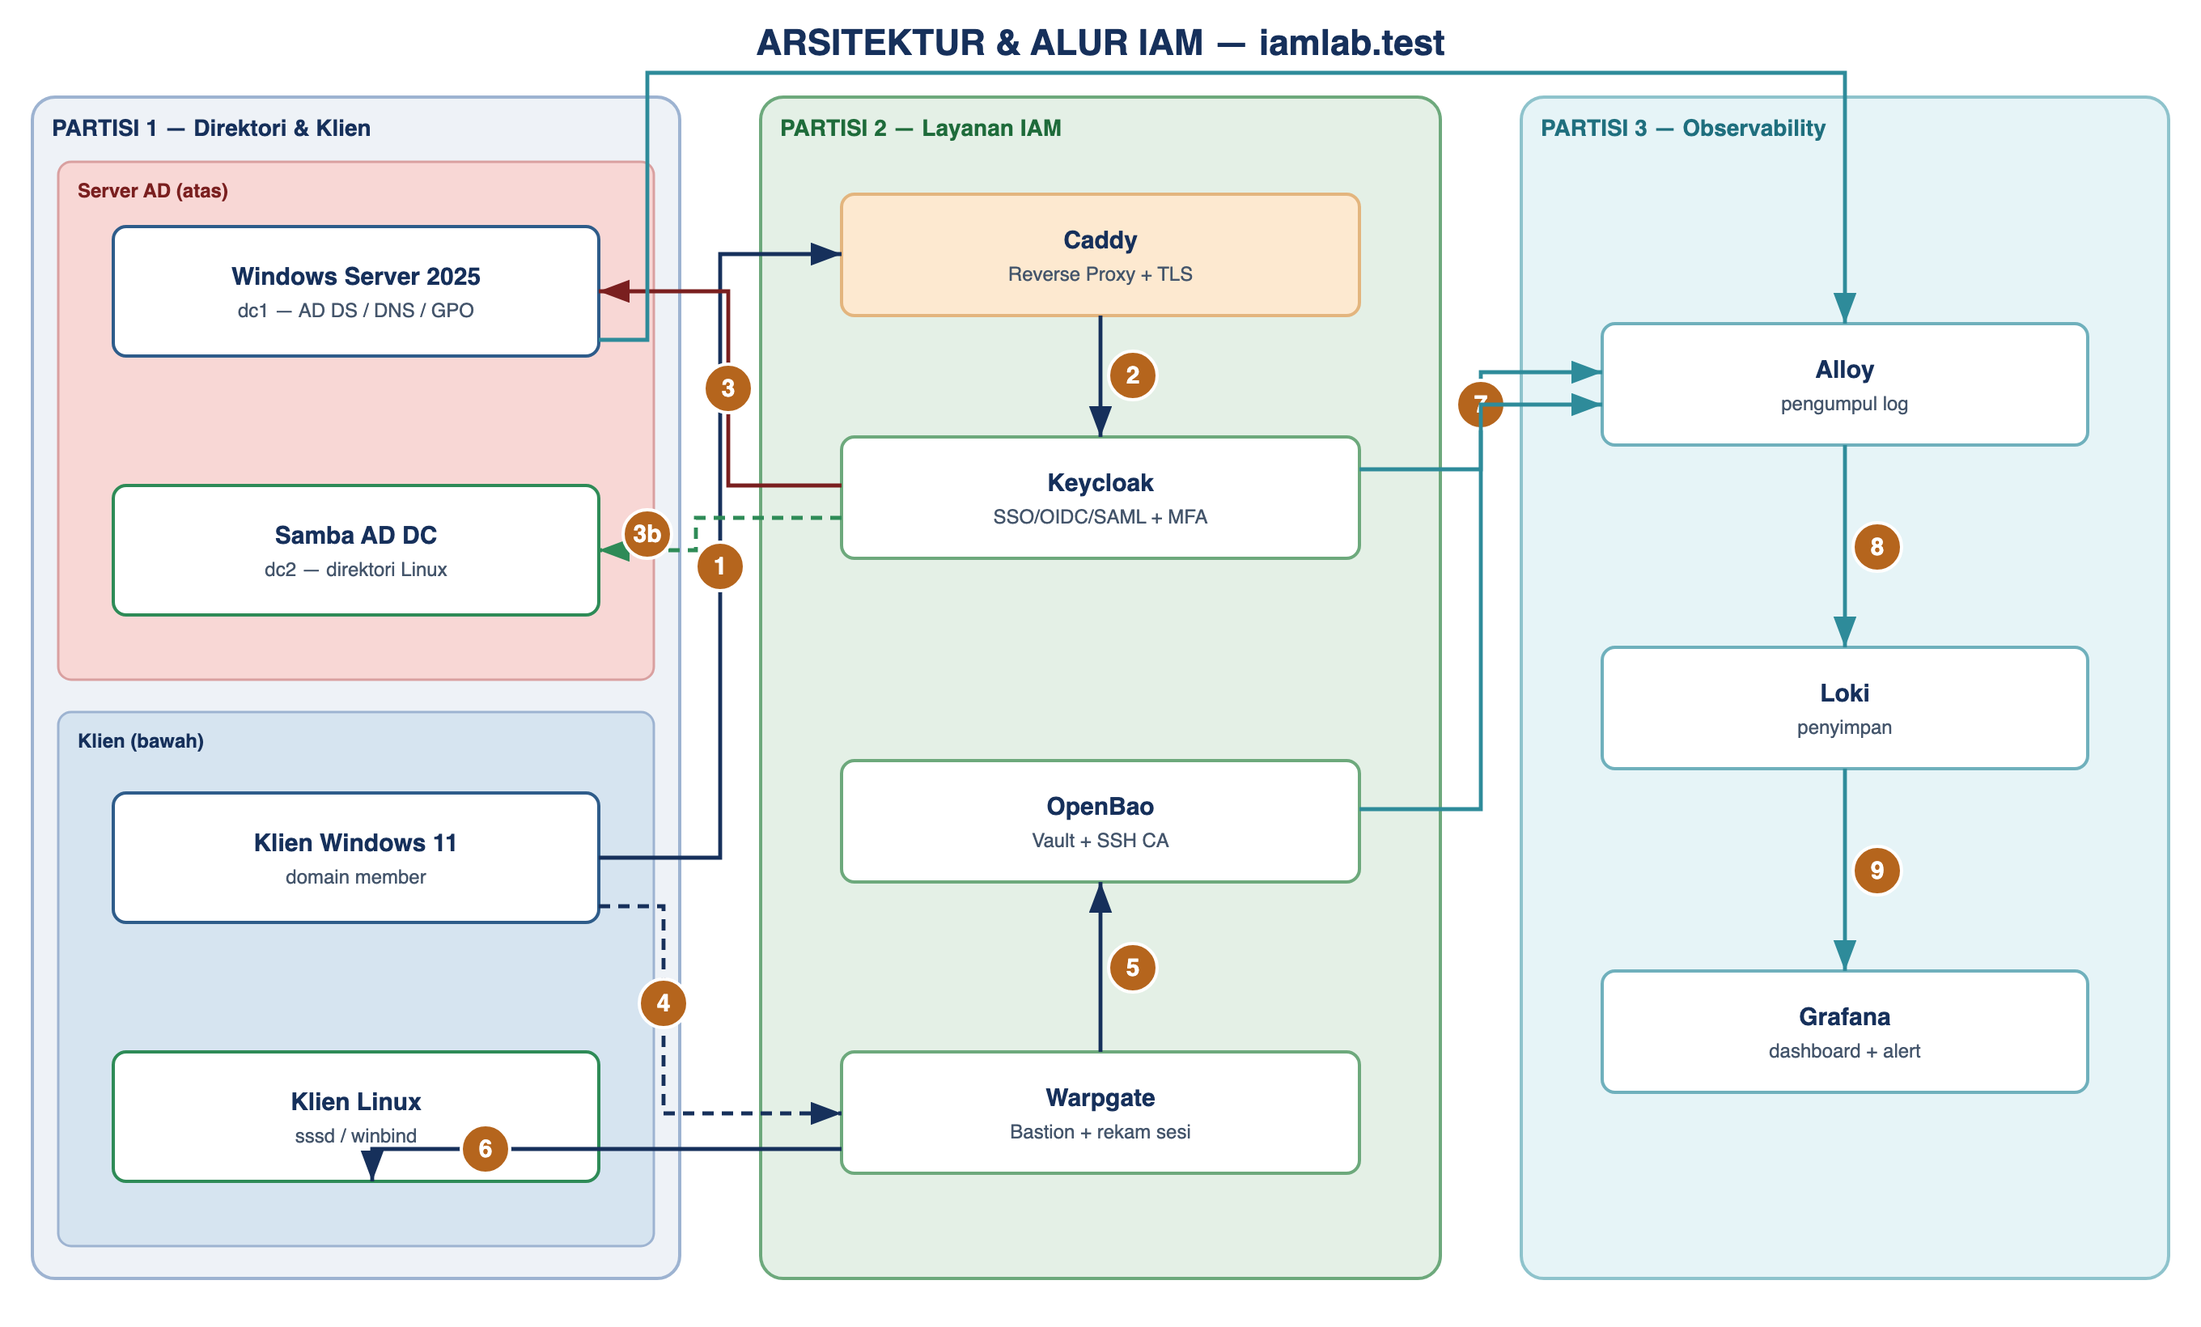
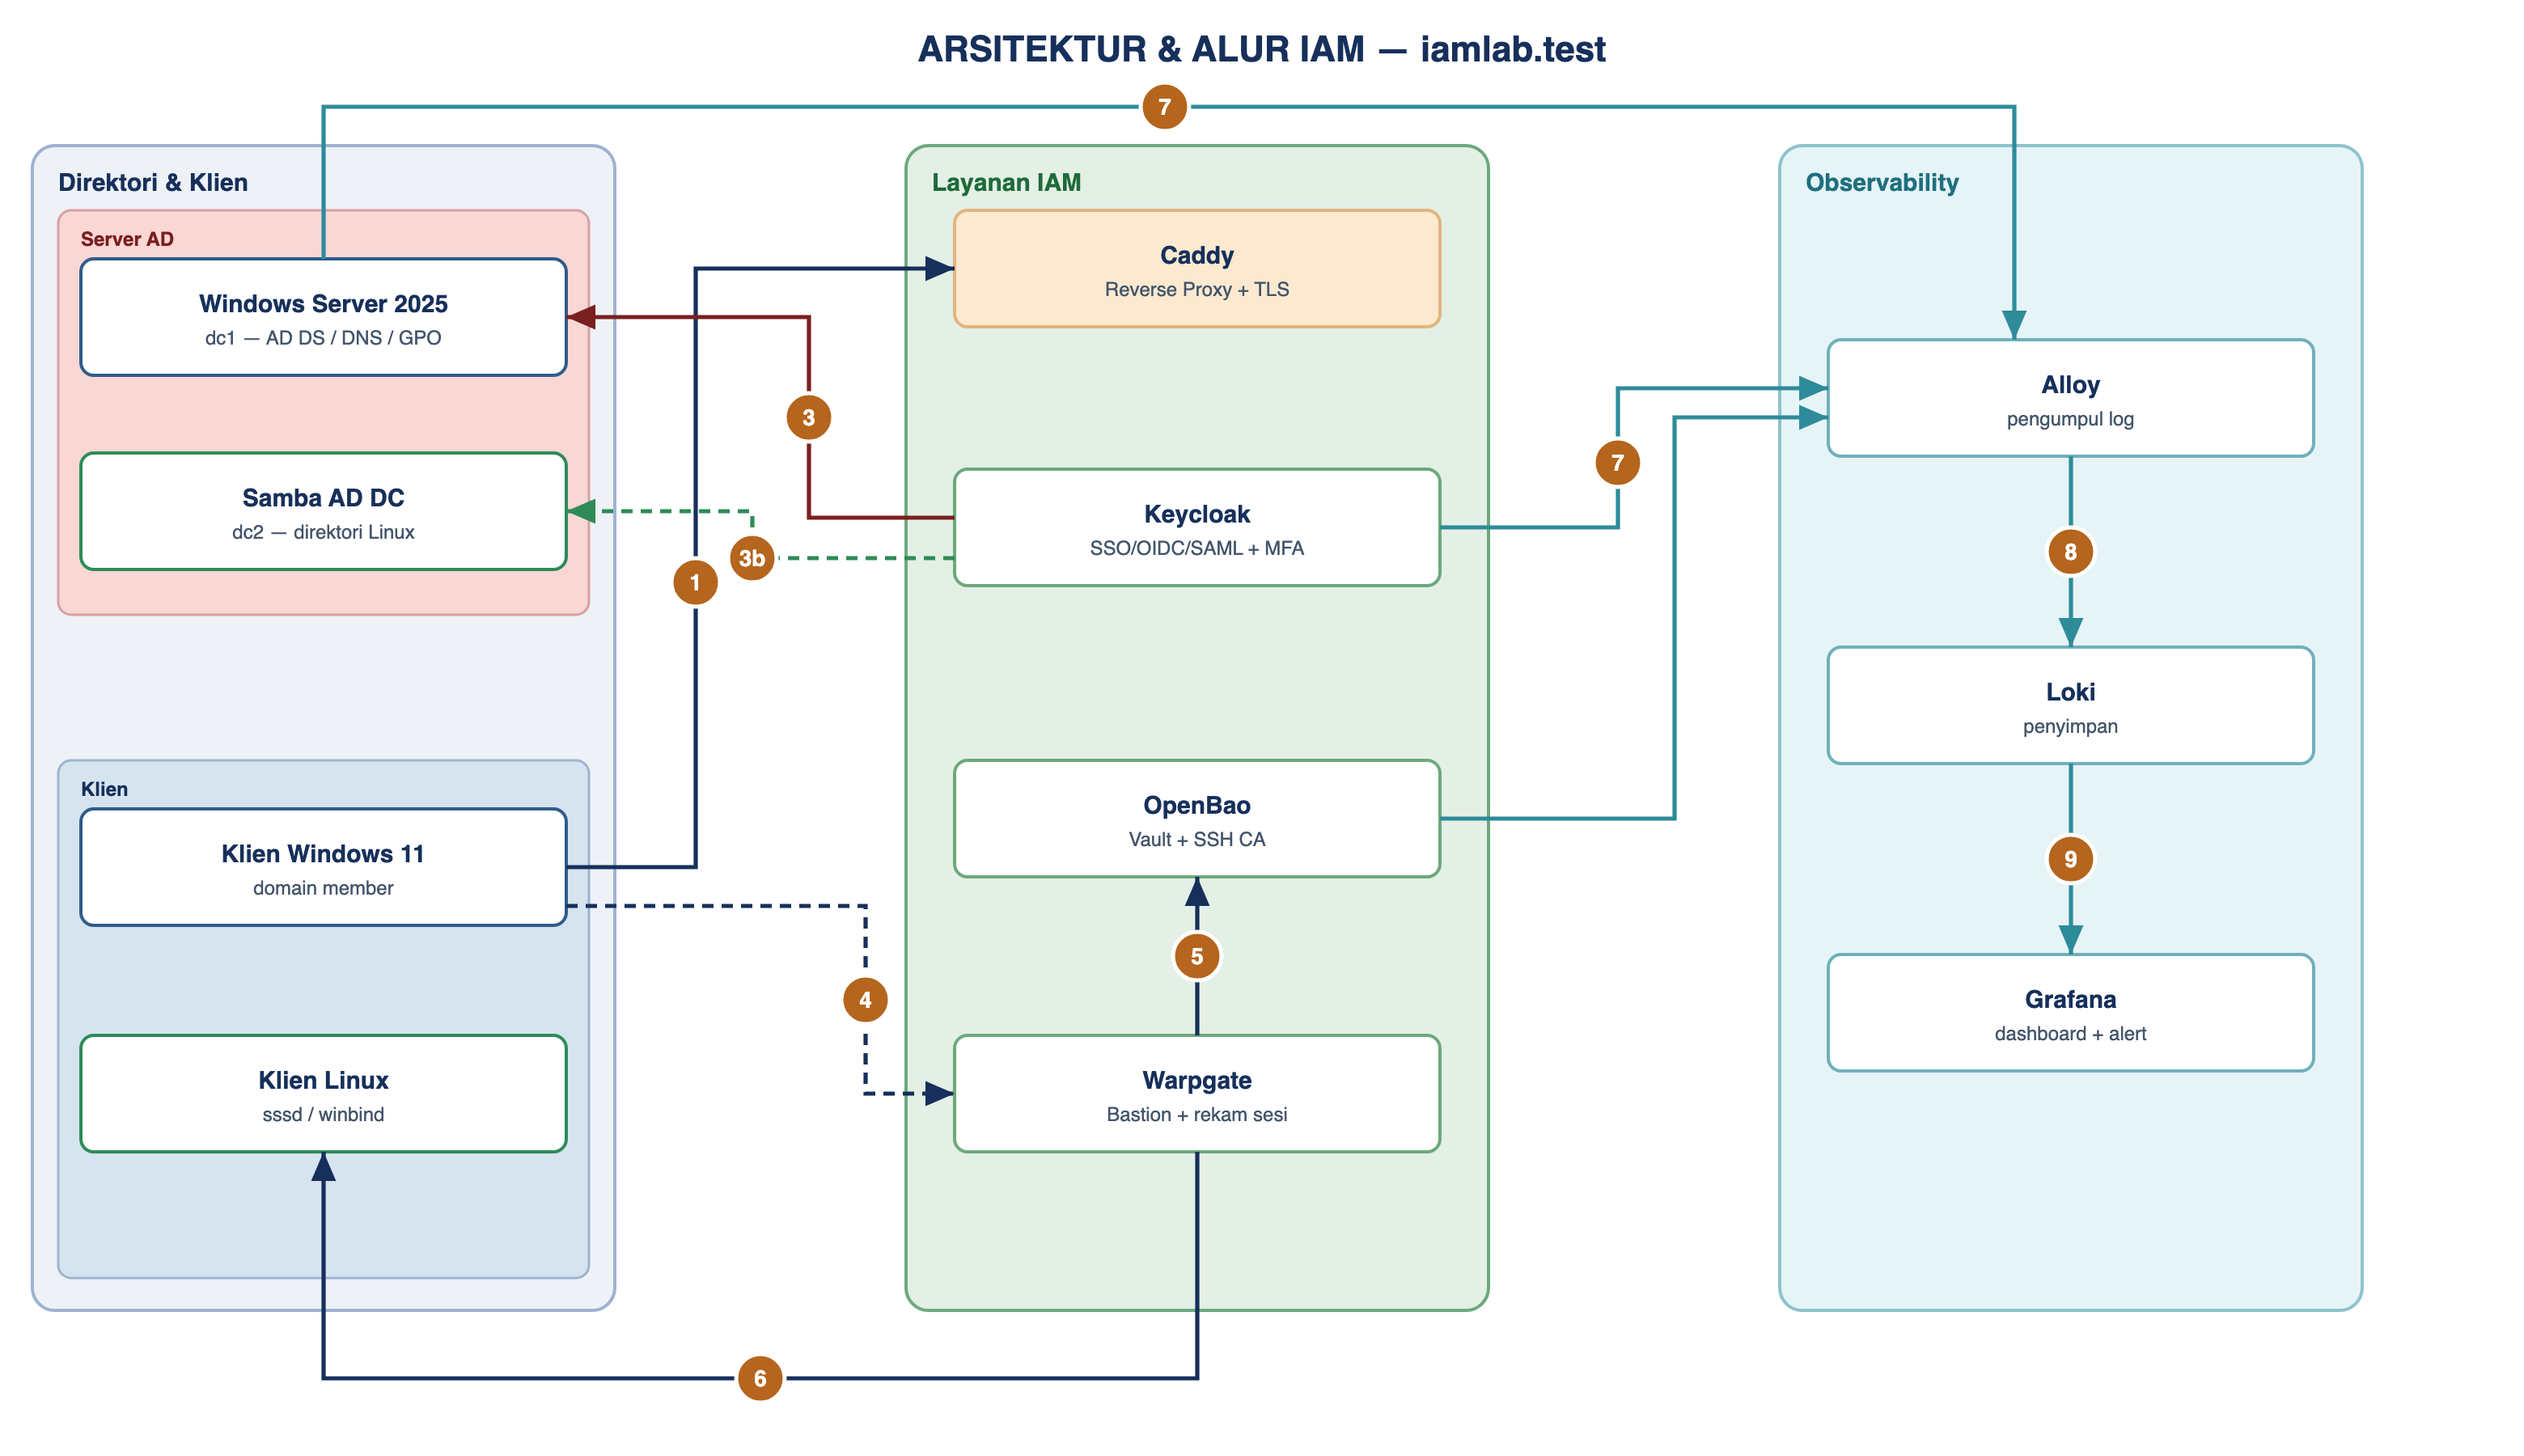
Sesi 0: rapikan diagram arsitektur (anti-overlap, alur 6 di luar kotak, gap lebar, nama segmen)
- Lane terpisah untuk alur 1/3/3b/4 (tidak lagi tumpang tindih)
- Alur 7 memakai tiga lane berbeda (2 di gap kanan + 1 trunk atas) - tidak overlap
- Alur 6 dirutekan di LUAR kotak (jalur bawah) Warpgate -> Klien Linux
- Alur 4 badge di tengah jalur; gap antar-segmen dilebarkan agar garis jelas
- Hilangkan label 'PARTISI 1/2/3' -> pakai nama segmen (Direktori & Klien / Layanan IAM / Observability)

diff --git a/sesi-0-pengantar/README.md b/sesi-0-pengantar/README.md
@@ -82,8 +82,8 @@ Seluruh lab berjalan terisolasi di PC peserta (jaringan Host-Only, tanpa interne
 domain sintetis **`iamlab.test`**. AD berjalan sebagai VM Windows Server 2025; sisanya
 sebagai container Docker di belakang satu reverse proxy (Caddy) dengan TLS dari CA internal.
 
-Diagram berikut membagi sistem menjadi **tiga partisi** — (1) Direktori & Klien, (2)
-Layanan IAM, (3) Observability — dengan alur data/aktivitas **bernomor** yang dijelaskan
+Diagram berikut membagi sistem menjadi **tiga segmen** — Direktori & Klien,
+Layanan IAM, dan Observability — dengan alur data/aktivitas **bernomor** yang dijelaskan
 pada *Agenda Aktivitas* di bawahnya.
 
 ![Arsitektur & alur IAM — 3 partisi (Direktori & Klien · Layanan IAM · Observability) dengan alur bernomor](gambar/arsitektur.png)
